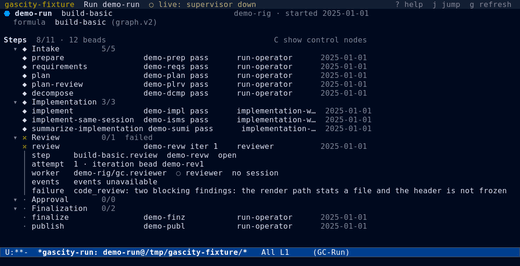
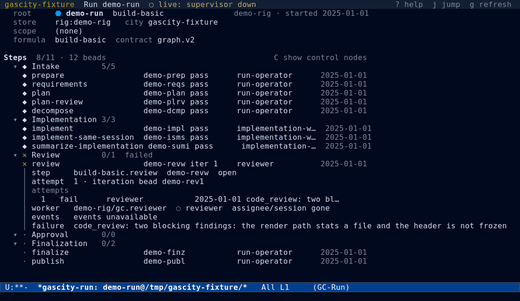
docs(screenshots): regenerate the run-view images for run-view-v3 (ga-1dhkx)
Regenerate the deterministic `runs` and `run-detail` screenshots for the
run-view-v3 states from the throwaway fixture city, and record the gate
results (plan "Screenshots", task-map step 7b; REQ-009, REQ-010).

The images now show the v3 provenance header, the stacked `attempts` block
and the separated session/claim worker line in the run detail, and the
Runs view's all-time count line plus the dim four-column history facts
line.

Captured from `61effa2` merged with the six closed source items
(880b134, 32975ca, d43c515, 8709d1e, f5e26c6, 62a2f0b), because
`origin/main` does not contain them yet; only the images and this item's
summary are committed here so the six source merge requests are not
duplicated. `capture.sh --verify run-detail,runs` reports byte-identical
output and 48 non-selected images untouched; `scripts/gate.sh` passes
960/960 tests, `scripts/lint.sh` is clean, and `make check-doc-drift` is
green on that integration tree.

The summary (schema gc.build.implementation-summary.v1) is at
plans/run-view-v3/build/implementation-summary-ga-1dhkx.md.

diff --git a/plans/run-view-v3/build/implementation-summary-ga-1dhkx.md b/plans/run-view-v3/build/implementation-summary-ga-1dhkx.md
@@ -1,0 +1,194 @@
+---
+schema: gc.build.implementation-summary.v1
+workflow:
+  id: ga-ssgfn
+  formula: do-work
+methodology:
+  pack: gascity
+  name: build-basic
+producer:
+  formula: do-work
+  stage: implement
+  attempt: 1
+status: approved
+trace:
+  upstream:
+    - path: beads/ga-1dhkx
+      hash: bead:ga-1dhkx
+      title: "Screenshots and gates: deterministic run-view images, gate.sh, lint.sh (REQ-009, REQ-010)"
+      ids:
+        - REQ-009
+        - REQ-010
+    - path: doc/screenshots/capture.sh
+      hash: git:61effa21b5114feb9174c593cbf4811f827a2124
+    - path: lisp/gascity-run.el
+      hash: git:62a2f0b07c7e24f4d82b2028d5ab036737376f02
+    - path: lisp/gascity-runs.el
+      hash: git:f5e26c6fef5d04b45f99e8583b22f10279aa9286
+    - path: lisp/gascity-run-stage.el
+      hash: git:cdcd9f307d00ba5ab3c1c87bd57b24730db25e8d
+    - path: doc/images/run-detail-dark.png
+      hash: sha256:759d3ccf099d9429ebd1d42338ce1cc47076db72c1abca774c3ceaa35b1e65db
+    - path: doc/images/run-detail-dark-thumb.png
+      hash: sha256:260bd31e31ad1eca57f47b6f76d9ddbbf3f9838d850697ddd58bacf38427061c
+    - path: doc/images/runs-dark.png
+      hash: sha256:b3e568a7c2a20b2d67e3383c6a7efb9cc2742b5e8ccb1dbf2cd8a1d3a8150765
+    - path: doc/images/runs-dark-thumb.png
+      hash: sha256:baebd6289e81f429535cb762e6009c98b3f65929c5d9a5ae3c3188e55a75b568
+  coverage:
+    - id: REQ-009
+      status: covered
+    - id: REQ-010
+      status: covered
+---
+
+# Implementation Summary: deterministic run-view screenshots and full gates (ga-1dhkx)
+
+## Summary
+
+Regenerated the two run-view screenshots (`runs`, `run-detail`) for the
+run-view-v3 states from the throwaway deterministic fixture city, proved the
+capture is byte-identical across two runs and leaves the other 48 committed
+images untouched, and ran the full quality gate (byte-compile with warnings as
+errors, whole ERT suite, lint, generated-table drift).
+
+The committed slice is **images only** plus this summary: four PNGs under
+`doc/images/` (`<view>-dark.png` and `<view>-dark-thumb.png` for `runs` and
+`run-detail`). No production source, fixture, manual, or generated-table file
+changed.
+
+**Integration context (important for reviewers).** This item is task-map step
+7b of the approved run-view-v3 plan, which runs *after* the six source items
+(REQ-001..REQ-008). At dispatch time `origin/main` was still `61effa2`
+(`fix(run-view): separate session liveness from a claim lease`) and the six
+closed source items were only in their own per-item worktrees, so the item
+worktree `/home/roman/workspace/gascity.el/worktrees/ga-1dhkx` did not contain
+the v3 source. To produce images of the *new* states without duplicating the
+six pending merge requests, the capture was run in a scratch tree
+(`/tmp/v3-integration`) built from `61effa2` plus the six closed item commits,
+merged in task-map order:
+
+| Step | Bead | Commit | Subject |
+| --- | --- | --- | --- |
+| 1 | ga-n6qh5 | 880b134 | feat(run-view): stack iteration/attempt history in the step drawer |
+| 2 | ga-kci2d | 32975ca | feat(run-view): actionable artifacts and header provenance |
+| 3 | ga-obuvt | d43c515 | feat(run-view): web handoff B/Y and gascity-dashboard-url |
+| 4 | ga-grkql | 8709d1e | feat(run-view): live deltas and last-update stamp |
+| 5 | ga-28pbg | f5e26c6 | feat(runs): label time bases and add history facts lines |
+| 6 | ga-x9qb9 | 62a2f0b | feat(run-view): needs-aware step tree toggle |
+
+The six merge cleanly except for three independent-feature overlaps, which the
+scratch tree resolves as the union of both features (delta styling carried into
+the facts-line row, freshness stamp kept in the title's right column with the
+key hint as fallback, needs-note room in the step row's name column, and both
+test suites kept). The scratch tree byte-compiles clean, passes 960/960 ERT,
+`make check-doc-drift`, and `scripts/lint.sh`, and its merged tree hash is
+`8d3f5d119fcf2cc7f5dd85829cca474aa953ac6e`. Those merge resolutions are
+**not** committed here; they belong to the six source items' own merge requests.
+
+## Intended Behavior
+
+The fixture (`doc/screenshots/fixture.sh` + `fixtures/`) seeds one active
+`build-basic` `demo-run` graph with pinned role ids and timestamps; nothing is
+captured from a live store and no live run is touched.
+
+- **`run-detail-dark.png`** shows the run view v3 states the manual documents:
+  the header's root/store/scope/formula + contract provenance rows, the
+  stage-grouped step tree with the failed `revew` step, and the open step
+  inspector with `step`, `attempt 1 · iteration bead …`, the new `attempts`
+  block (the fixture's failed iteration: outcome, worker, pinned time, and
+  `code_review: …` class/reason), the worker line with the session and claim
+  facts kept apart, the `events unavailable` state, and the `failure` line.
+- **`runs-dark.png`** shows the Runs view v3 states: the all-time count line
+  (`1 active · 0 waiting · 0 done · 0 failed (all time)`), the `Failed none ·
+  last 24h` section label, and the history row followed by the dim four-column
+  facts line (`review`, `8/11`, `✕ build-basic.review`, `code_review`).
+- Both are captured in the single standard dark theme
+  (`ef-deuteranopia-dark`), as the manifest and README fix it; no new theme is
+  introduced.
+- The first paint marks no delta and shows no `updated HH:MM:SS` stamp (the
+  plan's sticky-delta rule: a delivery that changes nothing visible leaves the
+  buffer unchanged), so the images are not dependent on delivery timing.
+- `gascity-dashboard-url` is nil and the fixture has no live controller, so
+  the web-handoff (`B`/`Y`) and live-session states are not in these images;
+  they are covered by ERT and the row-8 live acceptance item.
+
+## Changed Files
+
+- `doc/images/run-detail-dark.png` — regenerated full image (32123 bytes).
+- `doc/images/run-detail-dark-thumb.png` — regenerated preview (34070 bytes).
+- `doc/images/runs-dark.png` — regenerated full image (12288 bytes).
+- `doc/images/runs-dark-thumb.png` — regenerated preview (13956 bytes).
+- `plans/run-view-v3/build/implementation-summary-ga-1dhkx.md` — this artifact.
+
+No source fix was required to make either view deterministic; no exclusion was
+needed, so `doc/screenshots/fixtures/README.md` is unchanged.
+
+## Verification
+
+Scratch integration tree: `/tmp/v3-integration` (`61effa2` + the six merges
+above, tree `8d3f5d11`), fixture city `/tmp/gascity-fixture`, headless sway.
+
+- **First verification command — scope resolution and first capture.**
+  `./doc/screenshots/capture.sh --list-scope --scope changed` → **no views
+  selected** (the scratch tree is committed, and the resolver diffs the
+  working tree against `HEAD`); `GASCITY_SHOT_BASE=61effa2
+  ./doc/screenshots/capture.sh --list-scope --scope changed` → **`runs`,
+  `run-detail`**, the item's intended selection.
+  `./doc/screenshots/capture.sh --scope runs,run-detail` → **PASS**, producing
+  `run-detail-dark` full=32123 thumb=34070 and `runs-dark` full=12288
+  thumb=13956 (raw 110550 / 33727 bytes).
+- **Determinism and isolation (final proof for the images).**
+  `rm -rf /tmp/gascity-shots/verify-a /tmp/gascity-shots/verify-b &&
+  ./doc/screenshots/capture.sh --verify run-detail,runs` → **PASS**:
+  `verify: byte-identical for 2 image(s) (scope run-detail,runs)`, and
+  `isolation: OK; 48 non-selected image(s) byte-identical`.
+- **Quality gates (final proof for REQ-009).**
+  `./scripts/gate.sh` → **PASS** (`byte-compile-error-on-warn` clean, then
+  `Ran 960 tests, 960 results as expected, 0 unexpected`);
+  `./scripts/lint.sh` → **PASS** (checkdoc clean; package-lint is not installed
+  locally, so the wrapper skips the package metadata half as it documents);
+  `make check-doc-drift` → **PASS** (exit 0, no drift).
+  On the committed item worktree (`61effa2` + four PNGs + this summary),
+  `BEADS_DIR=$HOME/workspace/beads.el ./scripts/gate.sh` → **PASS**
+  (`Ran 932 tests, 932 results as expected`) and `./scripts/lint.sh` →
+  **PASS**; the 932 vs 960 count is exactly the six source items' new tests
+  that are not in this branch.
+- **Visual inspection.** Both committed images were rendered and read back: the
+  run detail shows the provenance rows, `attempts` block and failure line; the
+  Runs view shows the all-time counts and the facts line. No rendering
+  overflow, placeholder, or live-store value appears.
+
+## Remaining Risks
+
+- **Local integration, not merged main.** The images were captured from the
+  union of the six closed source commits, not from `origin/main` (which still
+  lacks them at `61effa2`). If the refinery's merged main resolves the same
+  three overlaps differently in any rendered fact, the images must be
+  regenerated with `./doc/screenshots/capture.sh --scope runs,run-detail` and
+  re-verified. The row-8 live acceptance item should re-run
+  `--verify run-detail,runs` on merged main as the closing check.
+- **`--scope changed` in the item branch.** The committed item branch contains
+  no run-view source change, so plain `--scope changed` selects nothing there
+  until the six source merges land. Reproduce the selection with
+  `GASCITY_SHOT_BASE=61effa2 ... --scope changed`, or use the explicit
+  `--scope runs,run-detail` as recorded above.
+- **Single-attempt fixture.** The fixture's failed review loop has one
+  iteration, so the `attempts` block shows one row; multi-attempt stacking and
+  the healthy `(none)` rendering are covered by
+  `gascity-test-run-attempt-history*` ERT, not by the image.
+- **No delta/web/live states in the image.** First paint has no `updated`
+  stamp by design, `gascity-dashboard-url` is nil in the fixture, and the
+  fixture has no live controller; those states are ERT- and live-acceptance
+  covered rather than screenshot-covered.
+- **Environment.** The committed bytes are from Emacs 31.1 (pgtk), ef-themes
+  2.2.1, sway 1.11 and ImageMagick 6 on this host; a different stack may
+  recompress differently, so regenerating elsewhere should be followed by the
+  same `--verify` check before replacing the committed images.
+
+## Coverage
+
+| ID | Status |
+| --- | --- |
+| REQ-009 | covered |
+| REQ-010 | covered |
